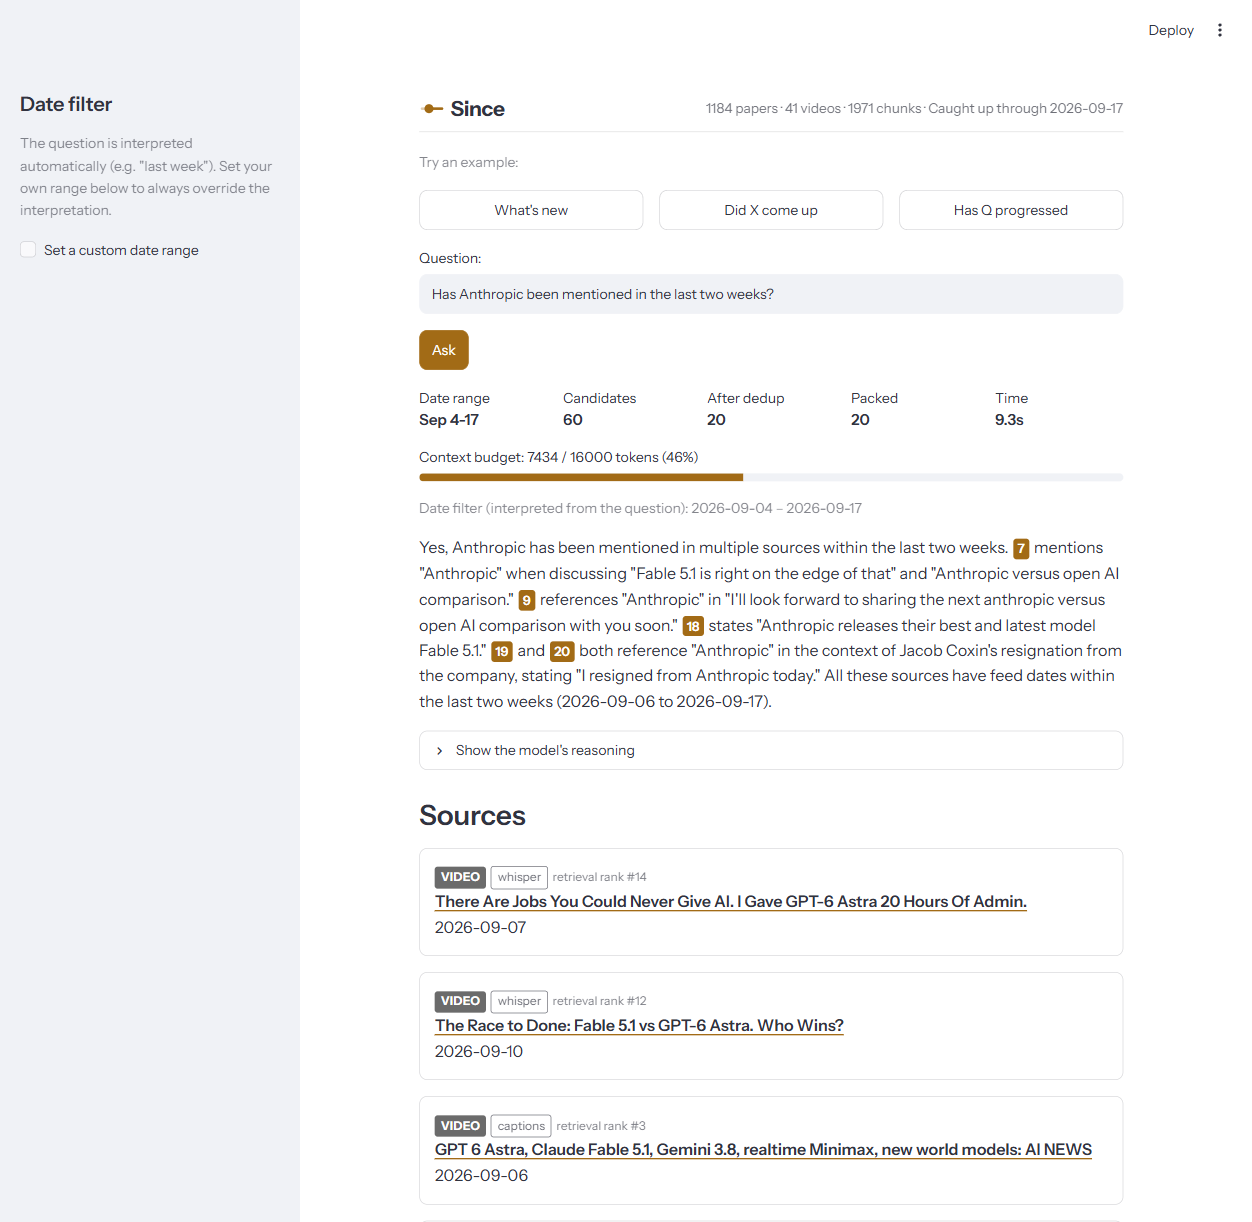
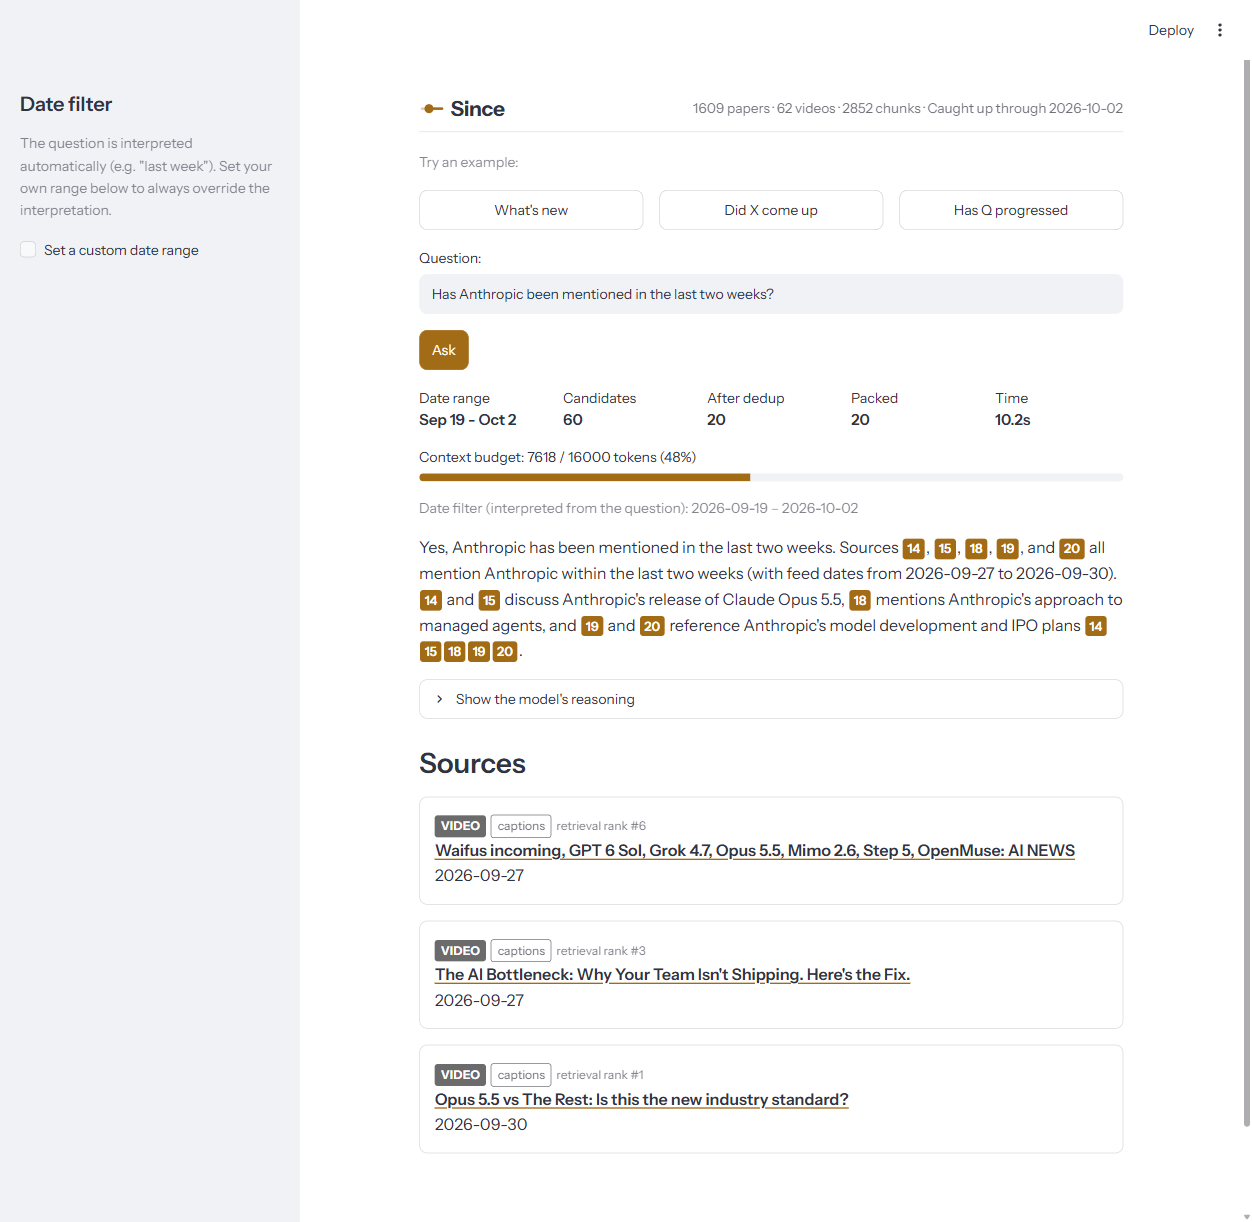
T-051: one action submits a question - Enter or one click on Ask
The field and button were a bare text_input plus button, so the text was
only committed on Enter or blur and that rerun swallowed the click. They
are now one form. Checked in a real browser: click only, Enter only, and
example button then click. Screenshots retaken on the caught-up data.

diff --git a/app.py b/app.py
@@ -93,11 +93,15 @@ with st.sidebar:
         if start and end:
             manual_range = (start, end)
 
-question = st.text_input(
-    "Question:", key="question_input",
-    placeholder="What's happened since…",
-)
-ask = st.button("Ask", type="primary")
+# T-051: a form, so that Enter in the field or one click on Ask each submit on their
+# own. As a bare text_input plus button, the typed text was only committed on Enter or
+# blur, and that commit's rerun swallowed the click - Enter and then Ask were both needed.
+with st.form("ask_form", border=False):
+    question = st.text_input(
+        "Question:", key="question_input",
+        placeholder="What's happened since…",
+    )
+    ask = st.form_submit_button("Ask", type="primary")
 
 if ask and question.strip():
     today = latest_feed_date()

diff --git a/docs/TICKETS.md b/docs/TICKETS.md
@@ -14,6 +14,35 @@ PR title `T-0NN — Title`. One ticket ID per commit.
 
 ## Open
 
+### T-051 — One action submits a question: Enter or one click on Ask
+
+**Status:** done
+**Size:** S  ·  **Branch:** — (committed on `main`)  ·  **Phase:** 3
+
+**Goal:** typing a question and pressing Enter, or typing it and clicking Ask once,
+each runs the question.
+
+**Why:** reported by me from using the app (2026-10-02): they had to press Enter
+and then click Ask. The field and the button were a bare `st.text_input` plus
+`st.button`; the typed text is only committed on Enter or blur, and the rerun that
+commit triggers swallowed the click.
+
+**Acceptance criteria**
+- [x] The field and the button are one `st.form` (`border=False`, so the layout is
+  unchanged) with `st.form_submit_button`
+- [x] Checked in a real browser with real key presses and clicks, on the caught-up data:
+  typing then one click on Ask answers (no Enter); typing then Enter answers (no click);
+  an example button fills the field and one click on Ask answers
+- [x] `docs/screenshots/t042-ui-{light,dark}-theme.png` retaken, now showing the
+  caught-up corpus (1609 papers, 62 videos, through 2026-10-02)
+
+**Out of scope:** an automated UI test (this project has none).
+
+**Depends on:** T-042.
+**Notes:** 209/209 unit tests pass; none of them exercise `app.py`.
+
+---
+
 ### T-050 — Ask button contrast: darken the accent so white text reaches WCAG AA
 
 **Status:** done
